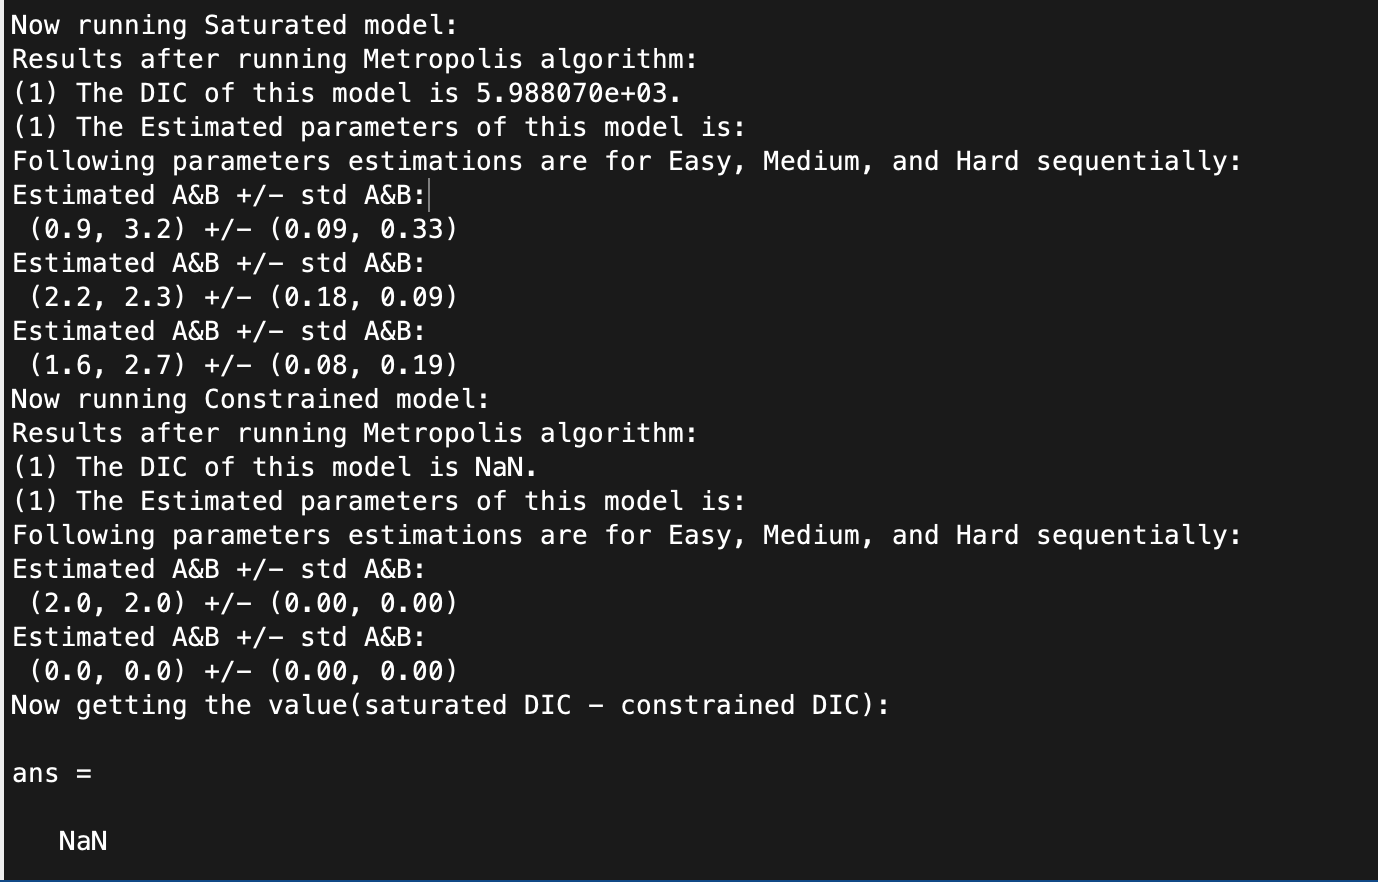
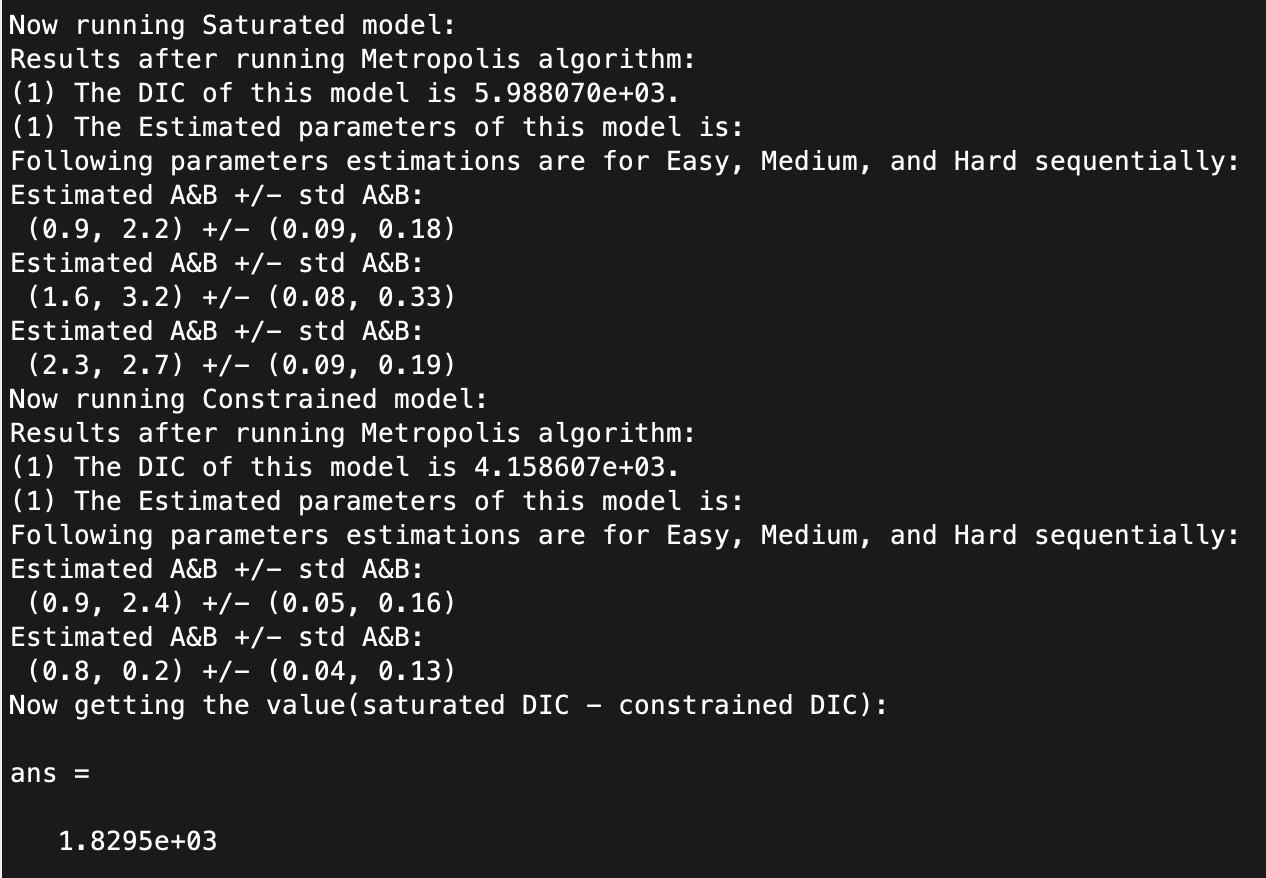
change AABB to ABAB need to change both main.m and disp.m, new output screenshots updated

Changed region(s): [[0.0, 0.0, 0.9858, 0.8303], [0.0, 0.9226, 1.0, 1.0], [0.0, 0.861, 0.0924, 0.8918]]

diff --git a/assignment/JieWanHW/+final/@Metropolis/disp.m b/assignment/JieWanHW/+final/@Metropolis/disp.m
@@ -8,9 +8,17 @@ function disp(obj)
     post_std = std(CleanSampleX,0,2);
     fprintf('Following parameters estimations are for Easy, Medium, and Hard sequentially:\n')
     numparsets = length(estimate)/2;
+
+    % DISP for AABB
     for i=1:numparsets
         fprintf('Estimated A&B +/- std A&B:\n (%.1f, %.1f) +/- (%.2f, %.2f)\n', estimate([i,(i+numparsets)]), post_std([i,(i+numparsets)]))
     end
+
+    % DISP for ABAB
+    % for i=1:numparsets
+    %     fprintf('Estimated A&B +/- std A&B:\n (%.1f, %.1f) +/- (%.2f, %.2f)\n', estimate([(2*i-1),2*i]), post_std([(2*i-1),2*i]))
+    % end
+    
     %fprintf('(%.1f, %.1f) +/- (%.2f, %.2f)\n', estimate, post_std)
     % plotting easy medium hard
 end

diff --git a/assignment/JieWanHW/+final/main.m b/assignment/JieWanHW/+final/main.m
@@ -15,7 +15,7 @@ saturated.disp
 %% Constrained model next  
 fprintf('Now running Constrained model:\n')
 constrainedTarget = @(parameter) final.ConstrainedLogPosterior(parameter, data); 
-constrained = final.Metropolis(constrainedTarget, [2 0 2 0]');
+constrained = final.Metropolis(constrainedTarget, [2 0 2 0]'); %[2 0 2 0] for AABB, [2 0 2 0] for ABAB
 constrained.DrawSamples(10000)
 constrained.disp
 
